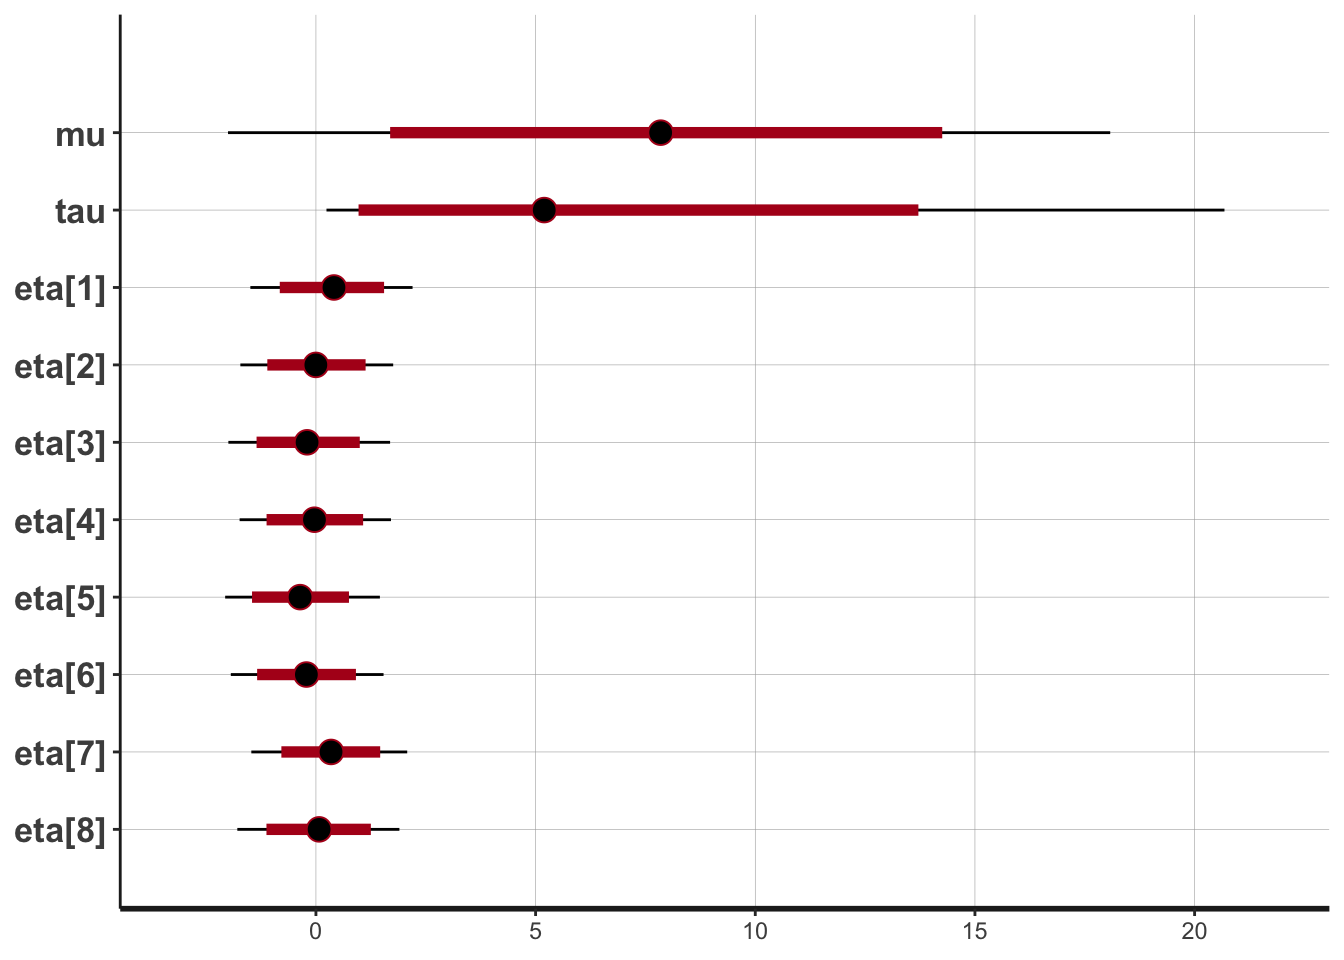
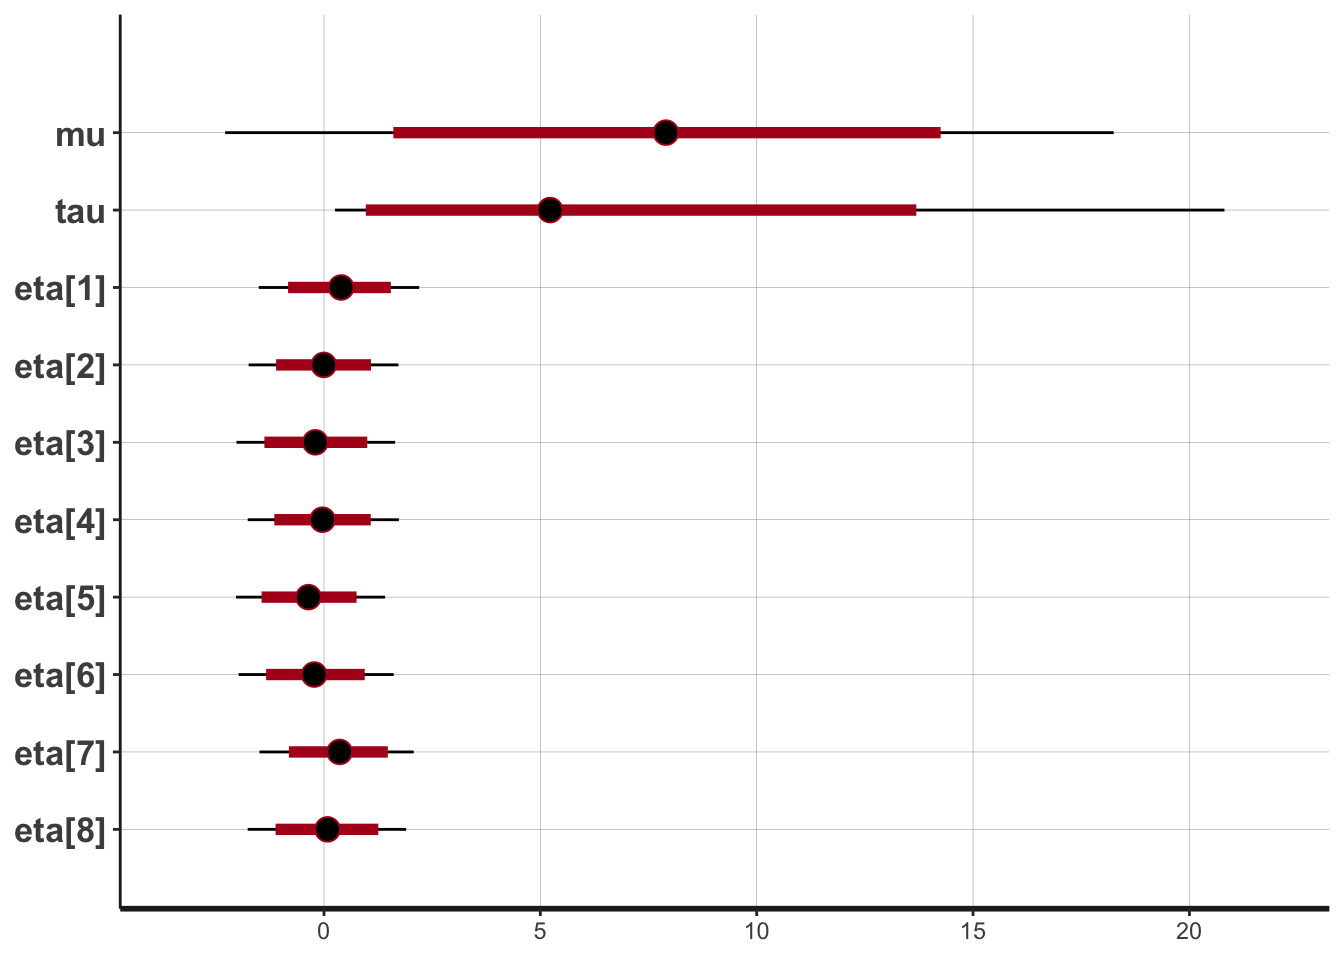
chage draft option

diff --git a/content/post/2014-04-10-stan-introduction.html b/content/post/2014-04-10-stan-introduction.html
@@ -1,5 +1,4 @@
 ---
-draft: yes
 title: 베이즈 추정을 위한 Stan 맛보기
 date: '2014-04-10'
 categories: R
@@ -7,6 +6,7 @@ tags:
   - R
   - Stan
 slug: stan-introduction
+draft: false
 ---
 
 
@@ -111,7 +111,7 @@ slug: stan-introduction
 &gt; 
 &gt; fit &lt;- stan(model_code = schools_code, data = schools_dat, 
 +             iter = 1000, chains = 4)</code></pre>
-<pre><code>#&gt; In file included from file95554b1bba65.cpp:8:
+<pre><code>#&gt; In file included from filecf142518d779.cpp:8:
 #&gt; In file included from /usr/local/lib/R/3.5/site-library/StanHeaders/include/src/stan/model/model_header.hpp:4:
 #&gt; In file included from /usr/local/lib/R/3.5/site-library/StanHeaders/include/stan/math.hpp:4:
 #&gt; In file included from /usr/local/lib/R/3.5/site-library/StanHeaders/include/stan/math/rev/mat.hpp:4:
@@ -126,7 +126,7 @@ slug: stan-introduction
 #&gt; &lt;command line&gt;:6:9: note: previous definition is here
 #&gt; #define BOOST_NO_CXX11_RVALUE_REFERENCES 1
 #&gt;         ^
-#&gt; In file included from file95554b1bba65.cpp:8:
+#&gt; In file included from filecf142518d779.cpp:8:
 #&gt; In file included from /usr/local/lib/R/3.5/site-library/StanHeaders/include/src/stan/model/model_header.hpp:4:
 #&gt; In file included from /usr/local/lib/R/3.5/site-library/StanHeaders/include/stan/math.hpp:4:
 #&gt; In file included from /usr/local/lib/R/3.5/site-library/StanHeaders/include/stan/math/rev/mat.hpp:4:
@@ -139,7 +139,7 @@ slug: stan-introduction
 #&gt; /usr/local/lib/R/3.5/site-library/RcppEigen/include/Eigen/src/Core/util/ReenableStupidWarnings.h:10:30: warning: pragma diagnostic pop could not pop, no matching push [-Wunknown-pragmas]
 #&gt;     #pragma clang diagnostic pop
 #&gt;                              ^
-#&gt; In file included from file95554b1bba65.cpp:8:
+#&gt; In file included from filecf142518d779.cpp:8:
 #&gt; In file included from /usr/local/lib/R/3.5/site-library/StanHeaders/include/src/stan/model/model_header.hpp:4:
 #&gt; In file included from /usr/local/lib/R/3.5/site-library/StanHeaders/include/stan/math.hpp:4:
 #&gt; In file included from /usr/local/lib/R/3.5/site-library/StanHeaders/include/stan/math/rev/mat.hpp:4:
@@ -152,7 +152,7 @@ slug: stan-introduction
 #&gt; /usr/local/lib/R/3.5/site-library/RcppEigen/include/Eigen/src/Core/util/ReenableStupidWarnings.h:10:30: warning: pragma diagnostic pop could not pop, no matching push [-Wunknown-pragmas]
 #&gt;     #pragma clang diagnostic pop
 #&gt;                              ^
-#&gt; In file included from file95554b1bba65.cpp:8:
+#&gt; In file included from filecf142518d779.cpp:8:
 #&gt; In file included from /usr/local/lib/R/3.5/site-library/StanHeaders/include/src/stan/model/model_header.hpp:4:
 #&gt; In file included from /usr/local/lib/R/3.5/site-library/StanHeaders/include/stan/math.hpp:4:
 #&gt; In file included from /usr/local/lib/R/3.5/site-library/StanHeaders/include/stan/math/rev/mat.hpp:4:
@@ -166,7 +166,7 @@ slug: stan-introduction
 #&gt; /usr/local/lib/R/3.5/site-library/RcppEigen/include/Eigen/src/Core/util/ReenableStupidWarnings.h:10:30: warning: pragma diagnostic pop could not pop, no matching push [-Wunknown-pragmas]
 #&gt;     #pragma clang diagnostic pop
 #&gt;                              ^
-#&gt; In file included from file95554b1bba65.cpp:8:
+#&gt; In file included from filecf142518d779.cpp:8:
 #&gt; In file included from /usr/local/lib/R/3.5/site-library/StanHeaders/include/src/stan/model/model_header.hpp:4:
 #&gt; In file included from /usr/local/lib/R/3.5/site-library/StanHeaders/include/stan/math.hpp:4:
 #&gt; In file included from /usr/local/lib/R/3.5/site-library/StanHeaders/include/stan/math/rev/mat.hpp:4:
@@ -179,7 +179,7 @@ slug: stan-introduction
 #&gt; /usr/local/lib/R/3.5/site-library/RcppEigen/include/Eigen/src/Core/util/ReenableStupidWarnings.h:10:30: warning: pragma diagnostic pop could not pop, no matching push [-Wunknown-pragmas]
 #&gt;     #pragma clang diagnostic pop
 #&gt;                              ^
-#&gt; In file included from file95554b1bba65.cpp:8:
+#&gt; In file included from filecf142518d779.cpp:8:
 #&gt; In file included from /usr/local/lib/R/3.5/site-library/StanHeaders/include/src/stan/model/model_header.hpp:4:
 #&gt; In file included from /usr/local/lib/R/3.5/site-library/StanHeaders/include/stan/math.hpp:4:
 #&gt; In file included from /usr/local/lib/R/3.5/site-library/StanHeaders/include/stan/math/rev/mat.hpp:4:
@@ -193,7 +193,7 @@ slug: stan-introduction
 #&gt; /usr/local/lib/R/3.5/site-library/RcppEigen/include/Eigen/src/Core/util/ReenableStupidWarnings.h:10:30: warning: pragma diagnostic pop could not pop, no matching push [-Wunknown-pragmas]
 #&gt;     #pragma clang diagnostic pop
 #&gt;                              ^
-#&gt; In file included from file95554b1bba65.cpp:8:
+#&gt; In file included from filecf142518d779.cpp:8:
 #&gt; In file included from /usr/local/lib/R/3.5/site-library/StanHeaders/include/src/stan/model/model_header.hpp:4:
 #&gt; In file included from /usr/local/lib/R/3.5/site-library/StanHeaders/include/stan/math.hpp:4:
 #&gt; In file included from /usr/local/lib/R/3.5/site-library/StanHeaders/include/stan/math/rev/mat.hpp:4:
@@ -206,7 +206,7 @@ slug: stan-introduction
 #&gt; /usr/local/lib/R/3.5/site-library/RcppEigen/include/Eigen/src/Core/util/ReenableStupidWarnings.h:10:30: warning: pragma diagnostic pop could not pop, no matching push [-Wunknown-pragmas]
 #&gt;     #pragma clang diagnostic pop
 #&gt;                              ^
-#&gt; In file included from file95554b1bba65.cpp:8:
+#&gt; In file included from filecf142518d779.cpp:8:
 #&gt; In file included from /usr/local/lib/R/3.5/site-library/StanHeaders/include/src/stan/model/model_header.hpp:4:
 #&gt; In file included from /usr/local/lib/R/3.5/site-library/StanHeaders/include/stan/math.hpp:4:
 #&gt; In file included from /usr/local/lib/R/3.5/site-library/StanHeaders/include/stan/math/rev/mat.hpp:4:
@@ -219,7 +219,7 @@ slug: stan-introduction
 #&gt; /usr/local/lib/R/3.5/site-library/RcppEigen/include/Eigen/src/Core/util/ReenableStupidWarnings.h:10:30: warning: pragma diagnostic pop could not pop, no matching push [-Wunknown-pragmas]
 #&gt;     #pragma clang diagnostic pop
 #&gt;                              ^
-#&gt; In file included from file95554b1bba65.cpp:8:
+#&gt; In file included from filecf142518d779.cpp:8:
 #&gt; In file included from /usr/local/lib/R/3.5/site-library/StanHeaders/include/src/stan/model/model_header.hpp:4:
 #&gt; In file included from /usr/local/lib/R/3.5/site-library/StanHeaders/include/stan/math.hpp:4:
 #&gt; In file included from /usr/local/lib/R/3.5/site-library/StanHeaders/include/stan/math/rev/mat.hpp:4:
@@ -232,7 +232,7 @@ slug: stan-introduction
 #&gt; /usr/local/lib/R/3.5/site-library/RcppEigen/include/Eigen/src/Core/util/ReenableStupidWarnings.h:10:30: warning: pragma diagnostic pop could not pop, no matching push [-Wunknown-pragmas]
 #&gt;     #pragma clang diagnostic pop
 #&gt;                              ^
-#&gt; In file included from file95554b1bba65.cpp:8:
+#&gt; In file included from filecf142518d779.cpp:8:
 #&gt; In file included from /usr/local/lib/R/3.5/site-library/StanHeaders/include/src/stan/model/model_header.hpp:4:
 #&gt; In file included from /usr/local/lib/R/3.5/site-library/StanHeaders/include/stan/math.hpp:4:
 #&gt; In file included from /usr/local/lib/R/3.5/site-library/StanHeaders/include/stan/math/rev/mat.hpp:4:
@@ -254,7 +254,7 @@ slug: stan-introduction
 #&gt; /Library/Developer/CommandLineTools/usr/include/c++/v1/__config:390:52: note: expanded from macro &#39;_LIBCPP_BEGIN_NAMESPACE_STD&#39;
 #&gt; #define _LIBCPP_BEGIN_NAMESPACE_STD namespace std {inline namespace _LIBCPP_NAMESPACE {
 #&gt;                                                    ^
-#&gt; In file included from file95554b1bba65.cpp:8:
+#&gt; In file included from filecf142518d779.cpp:8:
 #&gt; In file included from /usr/local/lib/R/3.5/site-library/StanHeaders/include/src/stan/model/model_header.hpp:4:
 #&gt; In file included from /usr/local/lib/R/3.5/site-library/StanHeaders/include/stan/math.hpp:4:
 #&gt; In file included from /usr/local/lib/R/3.5/site-library/StanHeaders/include/stan/math/rev/mat.hpp:12:
@@ -265,7 +265,7 @@ slug: stan-introduction
 #&gt; /usr/local/lib/R/3.5/site-library/RcppEigen/include/Eigen/src/Core/util/ReenableStupidWarnings.h:10:30: warning: pragma diagnostic pop could not pop, no matching push [-Wunknown-pragmas]
 #&gt;     #pragma clang diagnostic pop
 #&gt;                              ^
-#&gt; In file included from file95554b1bba65.cpp:8:
+#&gt; In file included from filecf142518d779.cpp:8:
 #&gt; In file included from /usr/local/lib/R/3.5/site-library/StanHeaders/include/src/stan/model/model_header.hpp:4:
 #&gt; In file included from /usr/local/lib/R/3.5/site-library/StanHeaders/include/stan/math.hpp:4:
 #&gt; In file included from /usr/local/lib/R/3.5/site-library/StanHeaders/include/stan/math/rev/mat.hpp:12:
@@ -276,7 +276,7 @@ slug: stan-introduction
 #&gt; /usr/local/lib/R/3.5/site-library/RcppEigen/include/Eigen/src/Core/util/ReenableStupidWarnings.h:10:30: warning: pragma diagnostic pop could not pop, no matching push [-Wunknown-pragmas]
 #&gt;     #pragma clang diagnostic pop
 #&gt;                              ^
-#&gt; In file included from file95554b1bba65.cpp:8:
+#&gt; In file included from filecf142518d779.cpp:8:
 #&gt; In file included from /usr/local/lib/R/3.5/site-library/StanHeaders/include/src/stan/model/model_header.hpp:4:
 #&gt; In file included from /usr/local/lib/R/3.5/site-library/StanHeaders/include/stan/math.hpp:4:
 #&gt; In file included from /usr/local/lib/R/3.5/site-library/StanHeaders/include/stan/math/rev/mat.hpp:12:
@@ -287,7 +287,7 @@ slug: stan-introduction
 #&gt; /usr/local/lib/R/3.5/site-library/RcppEigen/include/Eigen/src/Core/util/ReenableStupidWarnings.h:10:30: warning: pragma diagnostic pop could not pop, no matching push [-Wunknown-pragmas]
 #&gt;     #pragma clang diagnostic pop
 #&gt;                              ^
-#&gt; In file included from file95554b1bba65.cpp:8:
+#&gt; In file included from filecf142518d779.cpp:8:
 #&gt; In file included from /usr/local/lib/R/3.5/site-library/StanHeaders/include/src/stan/model/model_header.hpp:4:
 #&gt; In file included from /usr/local/lib/R/3.5/site-library/StanHeaders/include/stan/math.hpp:4:
 #&gt; In file included from /usr/local/lib/R/3.5/site-library/StanHeaders/include/stan/math/rev/mat.hpp:12:
@@ -298,7 +298,7 @@ slug: stan-introduction
 #&gt; /usr/local/lib/R/3.5/site-library/RcppEigen/include/Eigen/src/Core/util/ReenableStupidWarnings.h:10:30: warning: pragma diagnostic pop could not pop, no matching push [-Wunknown-pragmas]
 #&gt;     #pragma clang diagnostic pop
 #&gt;                              ^
-#&gt; In file included from file95554b1bba65.cpp:8:
+#&gt; In file included from filecf142518d779.cpp:8:
 #&gt; In file included from /usr/local/lib/R/3.5/site-library/StanHeaders/include/src/stan/model/model_header.hpp:4:
 #&gt; In file included from /usr/local/lib/R/3.5/site-library/StanHeaders/include/stan/math.hpp:4:
 #&gt; In file included from /usr/local/lib/R/3.5/site-library/StanHeaders/include/stan/math/rev/mat.hpp:12:
@@ -309,7 +309,7 @@ slug: stan-introduction
 #&gt; /usr/local/lib/R/3.5/site-library/RcppEigen/include/Eigen/src/Core/util/ReenableStupidWarnings.h:10:30: warning: pragma diagnostic pop could not pop, no matching push [-Wunknown-pragmas]
 #&gt;     #pragma clang diagnostic pop
 #&gt;                              ^
-#&gt; In file included from file95554b1bba65.cpp:478:
+#&gt; In file included from filecf142518d779.cpp:478:
 #&gt; In file included from /usr/local/lib/R/3.5/site-library/rstan/include/rstan/rstaninc.hpp:3:
 #&gt; In file included from /usr/local/lib/R/3.5/site-library/rstan/include/rstan/stan_fit.hpp:36:
 #&gt; In file included from /usr/local/lib/R/3.5/site-library/StanHeaders/include/src/stan/services/optimize/bfgs.hpp:11:
@@ -336,27 +336,27 @@ slug: stan-introduction
 #&gt; post-warmup draws per chain=5000, total post-warmup draws=20000.
 #&gt; 
 #&gt;           mean se_mean   sd   2.5%   25%   50%   75% 97.5% n_eff Rhat
-#&gt; mu        7.90    0.06 5.14  -2.00  4.57  7.85 11.18 18.08  8161    1
-#&gt; tau       6.53    0.07 5.52   0.24  2.44  5.20  9.10 20.68  6660    1
-#&gt; eta[1]    0.39    0.01 0.94  -1.49 -0.22  0.41  1.01  2.20 20000    1
-#&gt; eta[2]    0.01    0.01 0.88  -1.72 -0.57  0.00  0.59  1.76 20000    1
-#&gt; eta[3]   -0.19    0.01 0.93  -1.99 -0.81 -0.20  0.42  1.69 20000    1
-#&gt; eta[4]   -0.03    0.01 0.87  -1.74 -0.60 -0.03  0.54  1.71 20000    1
-#&gt; eta[5]   -0.35    0.01 0.88  -2.07 -0.93 -0.36  0.20  1.46 20000    1
-#&gt; eta[6]   -0.21    0.01 0.89  -1.94 -0.80 -0.22  0.37  1.54 20000    1
-#&gt; eta[7]    0.34    0.01 0.89  -1.47 -0.24  0.34  0.93  2.08 20000    1
-#&gt; eta[8]    0.06    0.01 0.93  -1.79 -0.56  0.07  0.69  1.90 20000    1
-#&gt; theta[1] 11.38    0.07 8.37  -2.15  5.98 10.14 15.43 31.82 14423    1
-#&gt; theta[2]  7.88    0.04 6.29  -4.75  4.01  7.84 11.75 20.78 20000    1
-#&gt; theta[3]  6.15    0.05 7.68 -11.32  2.00  6.66 10.88 20.44 20000    1
-#&gt; theta[4]  7.66    0.05 6.50  -5.50  3.66  7.62 11.58 20.90 20000    1
-#&gt; theta[5]  5.14    0.04 6.27  -8.69  1.47  5.58  9.39 16.35 20000    1
-#&gt; theta[6]  6.11    0.05 6.70  -8.66  2.19  6.48 10.43 18.57 20000    1
-#&gt; theta[7] 10.59    0.05 6.78  -1.07  6.03  9.94 14.53 25.79 20000    1
-#&gt; theta[8]  8.50    0.06 7.85  -6.85  4.01  8.28 12.66 25.79 18680    1
-#&gt; lp__     -4.86    0.03 2.60 -10.58 -6.42 -4.63 -3.03 -0.40  6562    1
+#&gt; mu        7.91    0.06 5.18  -2.29  4.67  7.90 11.16 18.26  7972    1
+#&gt; tau       6.60    0.09 5.79   0.25  2.50  5.23  9.11 20.83  4403    1
+#&gt; eta[1]    0.38    0.01 0.93  -1.51 -0.23  0.40  1.01  2.20 20000    1
+#&gt; eta[2]    0.00    0.01 0.87  -1.74 -0.56 -0.01  0.56  1.72 20000    1
+#&gt; eta[3]   -0.19    0.01 0.94  -2.02 -0.82 -0.20  0.44  1.64 20000    1
+#&gt; eta[4]   -0.03    0.01 0.88  -1.76 -0.61 -0.03  0.55  1.73 20000    1
+#&gt; eta[5]   -0.34    0.01 0.87  -2.03 -0.92 -0.36  0.22  1.41 20000    1
+#&gt; eta[6]   -0.21    0.01 0.90  -1.97 -0.80 -0.23  0.36  1.61 20000    1
+#&gt; eta[7]    0.34    0.01 0.90  -1.49 -0.24  0.36  0.95  2.07 20000    1
+#&gt; eta[8]    0.07    0.01 0.93  -1.76 -0.55  0.08  0.70  1.90 20000    1
+#&gt; theta[1] 11.28    0.07 8.22  -2.15  5.97 10.13 15.36 31.22 13697    1
+#&gt; theta[2]  7.89    0.04 6.21  -4.52  3.98  7.87 11.72 20.59 20000    1
+#&gt; theta[3]  6.23    0.06 7.85 -11.11  2.05  6.73 10.91 21.09 15566    1
+#&gt; theta[4]  7.69    0.05 6.51  -5.52  3.71  7.63 11.68 20.79 20000    1
+#&gt; theta[5]  5.18    0.04 6.31  -8.72  1.52  5.65  9.34 16.73 20000    1
+#&gt; theta[6]  6.12    0.05 6.77  -8.69  2.23  6.51 10.51 18.65 20000    1
+#&gt; theta[7] 10.69    0.05 6.82  -1.14  6.05 10.00 14.65 26.06 20000    1
+#&gt; theta[8]  8.54    0.07 7.86  -6.92  4.03  8.26 12.79 25.51 13495    1
+#&gt; lp__     -4.88    0.03 2.65 -10.75 -6.48 -4.63 -3.01 -0.46  6280    1
 #&gt; 
-#&gt; Samples were drawn using NUTS(diag_e) at Sun Jul  8 16:17:59 2018.
+#&gt; Samples were drawn using NUTS(diag_e) at Sun Jul  8 20:03:55 2018.
 #&gt; For each parameter, n_eff is a crude measure of effective sample size,
 #&gt; and Rhat is the potential scale reduction factor on split chains (at 
 #&gt; convergence, Rhat=1).</code></pre>

diff --git a/content/post/2014-07-04-stringr-package.html b/content/post/2014-07-04-stringr-package.html
@@ -1,5 +1,4 @@
 ---
-draft: yes
 title: stringr package를 이용한 문자열 조작
 date: '2014-07-04'
 categories: R
@@ -7,6 +6,7 @@ tags:
   - R
   - stringr package
 slug: stringr-package
+draft: false
 ---
 
 

diff --git a/content/post/2015-08-02-How_to_use_the_summarise_each_function.html b/content/post/2015-08-02-How_to_use_the_summarise_each_function.html
@@ -1,5 +1,4 @@
 ---
-draft: yes
 title: '[R] dplyr 패키지의 _at 함수들'
 date: 2015-08-02
 categories:
@@ -8,6 +7,7 @@ tags:
   - dplyr
   - R
 slug: How_to_use_the_summarise_at_function
+draft: false
 ---
 
 

diff --git a/content/post/2015-07-22-Goodbye-wordpress-hellow-Jekyll.html b/content/post/2015-07-22-Goodbye-wordpress-hellow-Jekyll.html
@@ -1,5 +1,4 @@
 ---
-draft: yes
 title: Wordpress에서 Jekyll로...
 date: '2015-07-26'
 categories: R
@@ -9,6 +8,7 @@ tags:
   - knitr
   - Jekyll
 slug: Goodbye-wordpress-hellow-Jekyll
+draft: false
 ---
 
 
